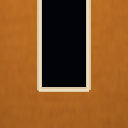
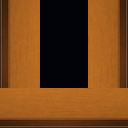
Fix corner walls + seams: windows only on straights
Map-corner cells never become windows (50% only on mid-edge
straights). Pixel-align cells and overlap wall draws to kill
hairlines; rebuild L/U arms from straight strips for edge match.

diff --git a/management/demos/demos-01-02.js b/management/demos/demos-01-02.js
@@ -1263,21 +1263,21 @@ window.FEEL_DEMOS["deadline-escape"] = {
       const bust = (id === "it" || id === "kpi" || id === "hr") ? "?v=recolor2" : "";
       ["s", "e", "n", "w"].forEach((d) => tryLoad(`boss_${id}_${d}`, `frames/boss_${id}_sheet/${d}.png${bust}`));
     });
-    ["floor_a", "floor_b", "desk", "desk2", "plant", "cooler", "fog", "wall", "window", "cabinet", "printer", "trash"].forEach((t) => tryLoad("tile_" + t, `frames/tile_${t}.png?v=walllu1`));
+    ["floor_a", "floor_b", "desk", "desk2", "plant", "cooler", "fog", "wall", "window", "cabinet", "printer", "trash"].forEach((t) => tryLoad("tile_" + t, `frames/tile_${t}.png?v=wallfix1`));
     // каркас: полосы + цельные L/U (одна заливка, без склейки полос) + stub
     ["n", "s", "e", "w"].forEach((d) => {
-      tryLoad("tile_wall_" + d, `frames/tile_wall_${d}.png?v=walllu1`);
-      tryLoad("tile_window_" + d, `frames/tile_window_${d}.png?v=walllu1`);
+      tryLoad("tile_wall_" + d, `frames/tile_wall_${d}.png?v=wallfix1`);
+      tryLoad("tile_window_" + d, `frames/tile_window_${d}.png?v=wallfix1`);
     });
     ["nw", "ne", "sw", "se"].forEach((d) => {
-      tryLoad("tile_wall_" + d, `frames/tile_wall_${d}.png?v=walllu1`);
-      tryLoad("tile_wall_stub_" + d, `frames/tile_wall_stub_${d}.png?v=walllu1`);
+      tryLoad("tile_wall_" + d, `frames/tile_wall_${d}.png?v=wallfix1`);
+      tryLoad("tile_wall_stub_" + d, `frames/tile_wall_stub_${d}.png?v=wallfix1`);
     });
     ["nwe", "nsw", "nse", "swe"].forEach((d) => {
-      tryLoad("tile_wall_" + d, `frames/tile_wall_${d}.png?v=walllu1`);
+      tryLoad("tile_wall_" + d, `frames/tile_wall_${d}.png?v=wallfix1`);
     });
     ["coin", "coffee", "badge"].forEach((p) => tryLoad("pu_" + p, `frames/pu_${p}.png`));
-    ["shield", "steam", "invuln", "near_miss", "report", "dash", "slam", "confetti"].forEach((v) => tryLoad("vfx_" + v, `frames/vfx_${v}.png?v=walllu1`));
+    ["shield", "steam", "invuln", "near_miss", "report", "dash", "slam", "confetti"].forEach((v) => tryLoad("vfx_" + v, `frames/vfx_${v}.png?v=wallfix1`));
     this._art = art;
     return art;
   },
@@ -1673,11 +1673,12 @@ window.FEEL_DEMOS["deadline-escape"] = {
   },
   /**
    * Ключ спрайта стены по wallGeomOf.
-   * Полоса / цельный L / цельный U / stub. Окно только на одинарной полосе.
+   * Окно только на прямой полосе ребра (не угол карты). Углы — L / stub / полоса.
    */
   wallTileKey(s, col, row) {
     const geom = this.wallGeomOf(s, col, row);
-    const single = !geom.square && geom.sides.length === 1;
+    const isMapCorner = !!this.mapCornerOf(s, col, row);
+    const single = !geom.square && geom.sides.length === 1 && !isMapCorner;
     const wantWin = s.map[row][col] === 7 && single;
     const prefix = wantWin ? "tile_window_" : "tile_wall_";
     const edgeOf = { s: "n", n: "s", e: "w", w: "e" };
@@ -1776,11 +1777,12 @@ window.FEEL_DEMOS["deadline-escape"] = {
       }
     }
 
-    // окна только на одинарных стенах — 50%
+    // окна только на прямых рёбрах (не угол карты) — 50%
     const frame = { map, border: b, cols, rows };
     for (let r = 0; r < rows; r++) {
       for (let c = 0; c < cols; c++) {
         if (map[r][c] !== 2) continue;
+        if (this.mapCornerOf(frame, c, r)) continue; // угол — всегда стена, не окно
         const geom = this.wallGeomOf(frame, c, r);
         if (geom.square || geom.sides.length !== 1) continue;
         if (rnd() < 0.5) map[r][c] = 7;
@@ -3216,6 +3218,14 @@ window.FEEL_DEMOS["deadline-escape"] = {
       api.setHud(`${this.clock(s.gameMin)} · ${ph.label} · эт.${s.floor} · 🪙${s.coins}${buff ? " · " + buff : ""}${god}${startTip}${s.nearMiss > 0 ? " · near!" : ""}${tip}`);
     }
   },
+  /** Пиксельные границы клетки — без субпиксельных щелей между спрайтами. */
+  cellRect(s, col, row) {
+    const x0 = Math.round(s.padX + col * s.cellW);
+    const y0 = Math.round(s.padT + row * s.cellH);
+    const x1 = Math.round(s.padX + (col + 1) * s.cellW);
+    const y1 = Math.round(s.padT + (row + 1) * s.cellH);
+    return { x: x0, y: y0, w: Math.max(1, x1 - x0), h: Math.max(1, y1 - y0) };
+  },
   /** Пол — ровно в клетку, без зазоров */
   drawTile(ctx, key, x, y, w, h) {
     const art = this.ensureArt();
@@ -3302,11 +3312,13 @@ window.FEEL_DEMOS["deadline-escape"] = {
    * Fallback — прямоугольники той же геометрии.
    */
   drawWallAt(ctx, s, col, row, x, y, w, h) {
+    // лёгкий overlap — гасит hairline между соседними клетками
+    const dx = x - 1, dy = y - 1, dw = w + 2, dh = h + 2;
     ctx.fillStyle = "#020308";
-    ctx.fillRect(x, y, w, h);
+    ctx.fillRect(dx, dy, dw, dh);
 
     const key = this.wallTileKey(s, col, row);
-    if (this.drawTile(ctx, key, x, y, w, h)) return;
+    if (this.drawTile(ctx, key, dx, dy, dw, dh)) return;
 
     const isWin = key.indexOf("window") >= 0;
     const { sides, square } = this.wallGeomOf(s, col, row);
@@ -3467,31 +3479,31 @@ window.FEEL_DEMOS["deadline-escape"] = {
     // 1) пол целиком — иначе клетка 6 затирает правую половину стола 2×1
     for (let r = 0; r < s.rows; r++) {
       for (let c = 0; c < s.cols; c++) {
-        const x = s.padX + c * s.cellW, y = s.padT + r * s.cellH;
+        const { x, y, w: cw, h: ch } = this.cellRect(s, c, r);
         // клетки стены/окна — почти чёрная подложка (не светлый пол)
         if (this.isFrameSolid(s.map[r][c])) {
           ctx.fillStyle = "#020308";
-          ctx.fillRect(x, y, s.cellW, s.cellH);
+          ctx.fillRect(x, y, cw, ch);
           continue;
         }
         const floorKey = (r + c) % 2 ? "tile_floor_a" : "tile_floor_b";
-        if (!this.drawTile(ctx, floorKey, x, y, s.cellW, s.cellH)) {
+        if (!this.drawTile(ctx, floorKey, x, y, cw, ch)) {
           ctx.fillStyle = coffee
             ? ((r + c) % 2 ? "#d9cfc0" : "#cfc4b4")
             : ((r + c) % 2 ? "#e9e5df" : "#ded9d2");
-          ctx.fillRect(x, y, s.cellW, s.cellH);
+          ctx.fillRect(x, y, cw, ch);
         }
       }
     }
     // 2) пропы + декоративные стены/окна на полосе тумана (каркас; концы = углы)
     for (let r = 0; r < s.rows; r++) {
       for (let c = 0; c < s.cols; c++) {
-        const x = s.padX + c * s.cellW, y = s.padT + r * s.cellH;
+        const { x, y, w: cw, h: ch } = this.cellRect(s, c, r);
         const cell = s.map[r][c];
         if (cell === 6) continue;
-        if (cell === 2 || cell === 7) this.drawWallAt(ctx, s, c, r, x, y, s.cellW, s.cellH);
+        if (cell === 2 || cell === 7) this.drawWallAt(ctx, s, c, r, x, y, cw, ch);
         else if (cell === 5) this.drawDesk2(ctx, x, y, s.cellW, s.cellH);
-        else if (cell !== 0) this.drawProp(ctx, x, y, s.cellW, s.cellH, cell);
+        else if (cell !== 0) this.drawProp(ctx, x, y, cw, ch, cell);
       }
     }
 

diff --git a/management/projects/deadline-escape.html b/management/projects/deadline-escape.html
@@ -260,16 +260,16 @@
 window.PORTFOLIO_GAMES = [{"id": "01", "slug": "neon-bullet", "name": "Neon Bullet", "wave": 3, "prio": "P1"}, {"id": "02", "slug": "deadline-escape", "name": "Работник месяца", "wave": 1, "prio": "P0"}, {"id": "03", "slug": "tide-of-relics", "name": "Море Реликвий", "wave": 4, "prio": "P1"}, {"id": "04", "slug": "legends-of-the-pitch", "name": "Легенды Поля", "wave": 4, "prio": "P1"}, {"id": "05", "slug": "merge-bazaar", "name": "Базар Слияний", "wave": 1, "prio": "P0"}, {"id": "06", "slug": "crystal-archipelago", "name": "Кристаллы Архипелага", "wave": 2, "prio": "P0"}, {"id": "07", "slug": "idle-forge", "name": "Кузница Вечности", "wave": 2, "prio": "P0"}, {"id": "08", "slug": "cozy-plot", "name": "Уютный Участок", "wave": 3, "prio": "P1"}, {"id": "09", "slug": "auto-towers", "name": "Автобашни", "wave": 3, "prio": "P1"}, {"id": "10", "slug": "night-courier", "name": "Ночной Курьер", "wave": 1, "prio": "P0"}];
 window.CURRENT_SLUG = "deadline-escape";
 </script>
-<script src="../demos/deadline-sfx-lib.js?v=walllu1"></script>
-<script src="../demos/demo-engine.js?v=walllu1"></script>
-<script src="../demos/demos-01-02.js?v=walllu1"></script>
-<script src="../demos/demos-03-06.js?v=walllu1"></script>
-<script src="../demos/demos-07-10.js?v=walllu1"></script>
-<script src="../demos/deadline-wireframes.js?v=walllu1"></script>
-<script src="../demos/deadline-sprites.js?v=walllu1"></script>
-<script src="../demos/deadline-sfx.js?v=walllu1"></script>
-<script src="../assets/deadline-docs-bundle.js?v=walllu1"></script>
-<script src="../assets/md-doc.js?v=walllu1"></script>
-<script src="../assets/dashboard.js?v=walllu1"></script>
+<script src="../demos/deadline-sfx-lib.js?v=wallfix1"></script>
+<script src="../demos/demo-engine.js?v=wallfix1"></script>
+<script src="../demos/demos-01-02.js?v=wallfix1"></script>
+<script src="../demos/demos-03-06.js?v=wallfix1"></script>
+<script src="../demos/demos-07-10.js?v=wallfix1"></script>
+<script src="../demos/deadline-wireframes.js?v=wallfix1"></script>
+<script src="../demos/deadline-sprites.js?v=wallfix1"></script>
+<script src="../demos/deadline-sfx.js?v=wallfix1"></script>
+<script src="../assets/deadline-docs-bundle.js?v=wallfix1"></script>
+<script src="../assets/md-doc.js?v=wallfix1"></script>
+<script src="../assets/dashboard.js?v=wallfix1"></script>
 </body>
 </html>

diff --git a/management/demos/deadline-sprites.js b/management/demos/deadline-sprites.js
@@ -11,7 +11,7 @@
   const APPROVED_FILE = "style-seed-hero.APPROVED.json";
   const REJECTED_FILE = "style-seed-hero.REJECTED.json";
   const LS_KEY = "deadline-escape.style-seed";
-  const BUST = "walllu1";
+  const BUST = "wallfix1";
 
   const CHECKER = "background:repeating-conic-gradient(#2a3340 0% 25%, #1a222c 0% 50%) 50%/12px 12px";
 
@@ -313,8 +313,7 @@
         card(
           "Каркас · полосы + цельные L/U (одна заливка)",
           "Прямые: <code>build_wall_break_set.py</code>. Углы L/U: <code>build_solid_lu_tiles.py</code> — " +
-            "одна UV-заливка дерева + miter-кромка (без склейки двух полос → без «+»). " +
-            "Окно только на одинарной стене (50%).",
+            "руки из прямых полос (стык без щели). Окно только на прямой стене ребра (50%), не на углах.",
           pngRow([
             ["ai-set-wall-n.png", "AI master wall", true, ART],
             ["ai-set-window-n.png", "AI master window", true, ART],

diff --git a/management/tools/build_solid_lu_tiles.py b/management/tools/build_solid_lu_tiles.py
@@ -1,70 +1,42 @@
 #!/usr/bin/env python3
-"""Solid L/U wall tiles: one continuous wood field + mitered cap (no strip overlay).
+"""Solid L/U from straight strips — arms match neighbors, no corner overlay (+).
 
-Uses face pixels from tile_wall_n (mid wood, no cap/baseboard) so the whole L/U
-shares one UV — no arm seam / crosshair at the join.
-
-Outputs:
-  tile_wall_{nw,ne,sw,se}.png
-  tile_wall_{nwe,swe,nsw,nse}.png
+Bottom/side arms copied from tile_wall_{n,e,w,s}; corner square stays from the
+horizontal/vertical arm only (no second strip over it → no crosshair).
 """
 from __future__ import annotations
 
 from pathlib import Path
 
 import numpy as np
-from PIL import Image, ImageDraw
+from PIL import Image
 
 ROOT = Path(__file__).resolve().parents[2]
 FRAMES = ROOT / "games" / "deadline-escape" / "refs" / "sprites" / "frames"
 ART = ROOT / "games" / "deadline-escape" / "refs" / "art"
-ART_OUT = Path("/opt/cursor/artifacts")
 SIDE = 128
-BAND_L = 56
+BAND = 56
 BAND_U = 40
 UNDER = (2, 3, 8, 255)
-CAP = (218, 198, 162, 255)
-CAP_HI = (236, 220, 188, 255)
 
 
-def wood_face() -> np.ndarray:
-    wn = np.array(Image.open(FRAMES / "tile_wall_n.png").convert("RGBA"))
-    band = wn[SIDE - 56 : SIDE]
-    mid = band[10:44, 4:124].copy()
-    # stretch — no mirror tile (mirror = butterfly seam / «перекрестье»)
-    return np.array(Image.fromarray(mid).resize((SIDE, SIDE), Image.Resampling.BICUBIC))
+def load(name: str) -> np.ndarray:
+    return np.array(Image.open(FRAMES / name).convert("RGBA"))
 
 
-def fill_one_grain(mask: np.ndarray, face: np.ndarray) -> np.ndarray:
+def l_nw(n: np.ndarray, e: np.ndarray) -> Image.Image:
     out = np.full((SIDE, SIDE, 4), UNDER, np.uint8)
-    ys, xs = np.where(mask)
-    out[ys, xs] = face[ys, xs]
-    out[ys, xs, 3] = 255
-    return out
+    out[SIDE - BAND : SIDE, :] = n[SIDE - BAND : SIDE, :]
+    out[0 : SIDE - BAND, SIDE - BAND : SIDE] = e[0 : SIDE - BAND, SIDE - BAND : SIDE]
+    return Image.fromarray(out)
 
 
-def l_nw(face: np.ndarray) -> Image.Image:
-    yy, xx = np.mgrid[0:SIDE, 0:SIDE]
-    mask = (yy >= SIDE - BAND_L) | (xx >= SIDE - BAND_L)
-    im = Image.fromarray(fill_one_grain(mask, face))
-    d = ImageDraw.Draw(im, "RGBA")
-    y0 = x0 = SIDE - BAND_L
-    pts = [(0, y0 + 1), (x0 + 1, y0 + 1), (x0 + 1, 0)]
-    d.line(pts, fill=CAP, width=5, joint="curve")
-    d.line(pts, fill=CAP_HI, width=2, joint="curve")
-    return im
-
-
-def u_nwe(face: np.ndarray) -> Image.Image:
-    yy, xx = np.mgrid[0:SIDE, 0:SIDE]
-    mask = (xx < BAND_U) | (xx >= SIDE - BAND_U) | (yy >= SIDE - BAND_U)
-    im = Image.fromarray(fill_one_grain(mask, face))
-    d = ImageDraw.Draw(im, "RGBA")
-    y0 = SIDE - BAND_U
-    pts = [(BAND_U - 1, 0), (BAND_U - 1, y0 + 1), (SIDE - BAND_U, y0 + 1), (SIDE - BAND_U, 0)]
-    d.line(pts, fill=CAP, width=5, joint="curve")
-    d.line(pts, fill=CAP_HI, width=2, joint="curve")
-    return im
+def u_nwe(n: np.ndarray, e: np.ndarray, w: np.ndarray) -> Image.Image:
+    out = np.full((SIDE, SIDE, 4), UNDER, np.uint8)
+    out[0 : SIDE - BAND_U, 0:BAND_U] = e[0 : SIDE - BAND_U, 0:BAND_U]
+    out[0 : SIDE - BAND_U, SIDE - BAND_U : SIDE] = w[0 : SIDE - BAND_U, SIDE - BAND_U : SIDE]
+    out[SIDE - BAND_U : SIDE, :] = n[SIDE - BAND_U : SIDE, :]
+    return Image.fromarray(out)
 
 
 def orient_l(im: Image.Image, key: str) -> Image.Image:
@@ -90,9 +62,9 @@ def orient_u(im: Image.Image, key: str) -> Image.Image:
 
 
 def main() -> None:
-    face = wood_face()
-    l0 = l_nw(face)
-    u0 = u_nwe(face)
+    n, e, w = load("tile_wall_n.png"), load("tile_wall_e.png"), load("tile_wall_w.png")
+    l0 = l_nw(n, e)
+    u0 = u_nwe(n, e, w)
     for k in ("nw", "ne", "sw", "se"):
         orient_l(l0, k).save(FRAMES / f"tile_wall_{k}.png")
         print("L", k)
@@ -103,15 +75,10 @@ def main() -> None:
     l0.save(ART / "ai-set-corner-nw.png")
     u0.save(ART / "ai-set-u-nwe.png")
     preview = Image.new("RGBA", (SIDE * 3 + 40, SIDE + 20), (18, 18, 22, 255))
-    for i, n in enumerate(("tile_wall_nw", "tile_wall_ne", "tile_wall_nwe")):
-        preview.paste(Image.open(FRAMES / f"{n}.png"), (10 + i * (SIDE + 10), 10))
-    sheet = FRAMES.parent / "wall_lu_solid_preview.png"
-    preview.save(sheet)
-    if ART_OUT.exists():
-        preview.resize((preview.width * 3, preview.height * 3), Image.Resampling.NEAREST).save(
-            ART_OUT / "wall-lu-three-preview.png"
-        )
-    print("preview", sheet)
+    for i, name in enumerate(("tile_wall_nw", "tile_wall_ne", "tile_wall_nwe")):
+        preview.paste(Image.open(FRAMES / f"{name}.png"), (10 + i * (SIDE + 10), 10))
+    preview.save(FRAMES.parent / "wall_lu_solid_preview.png")
+    print("done")
 
 
 if __name__ == "__main__":
